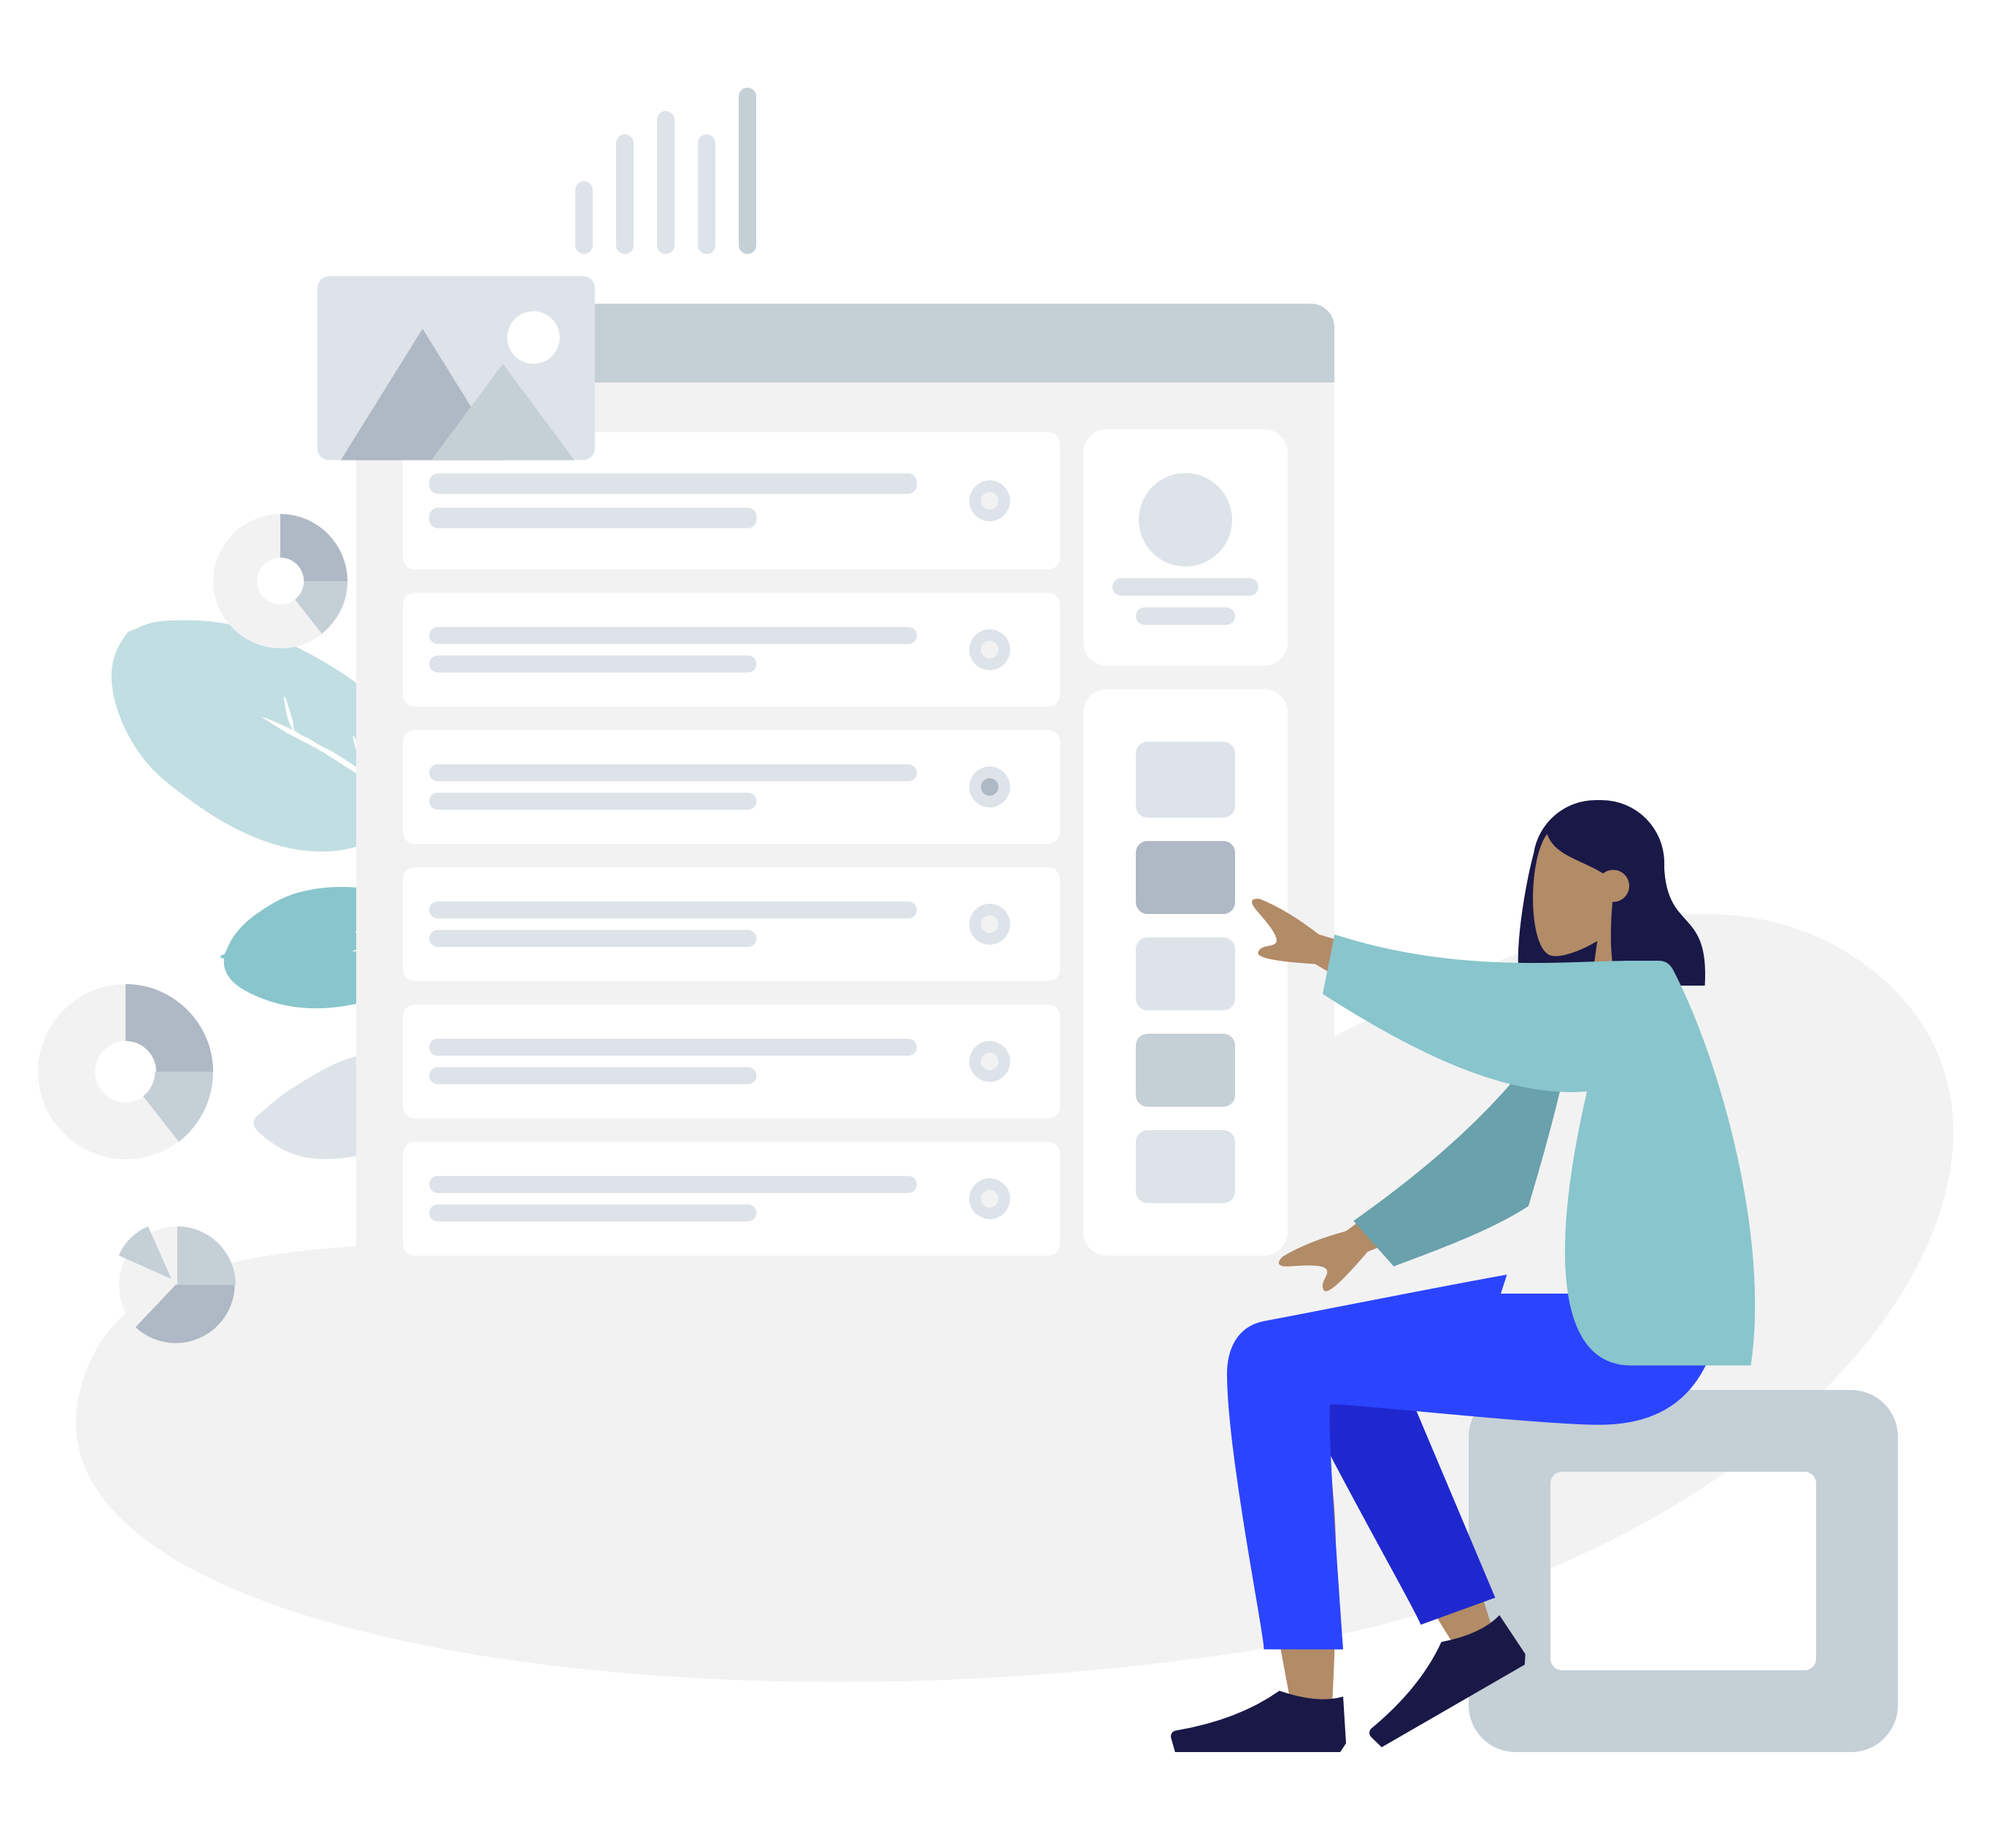
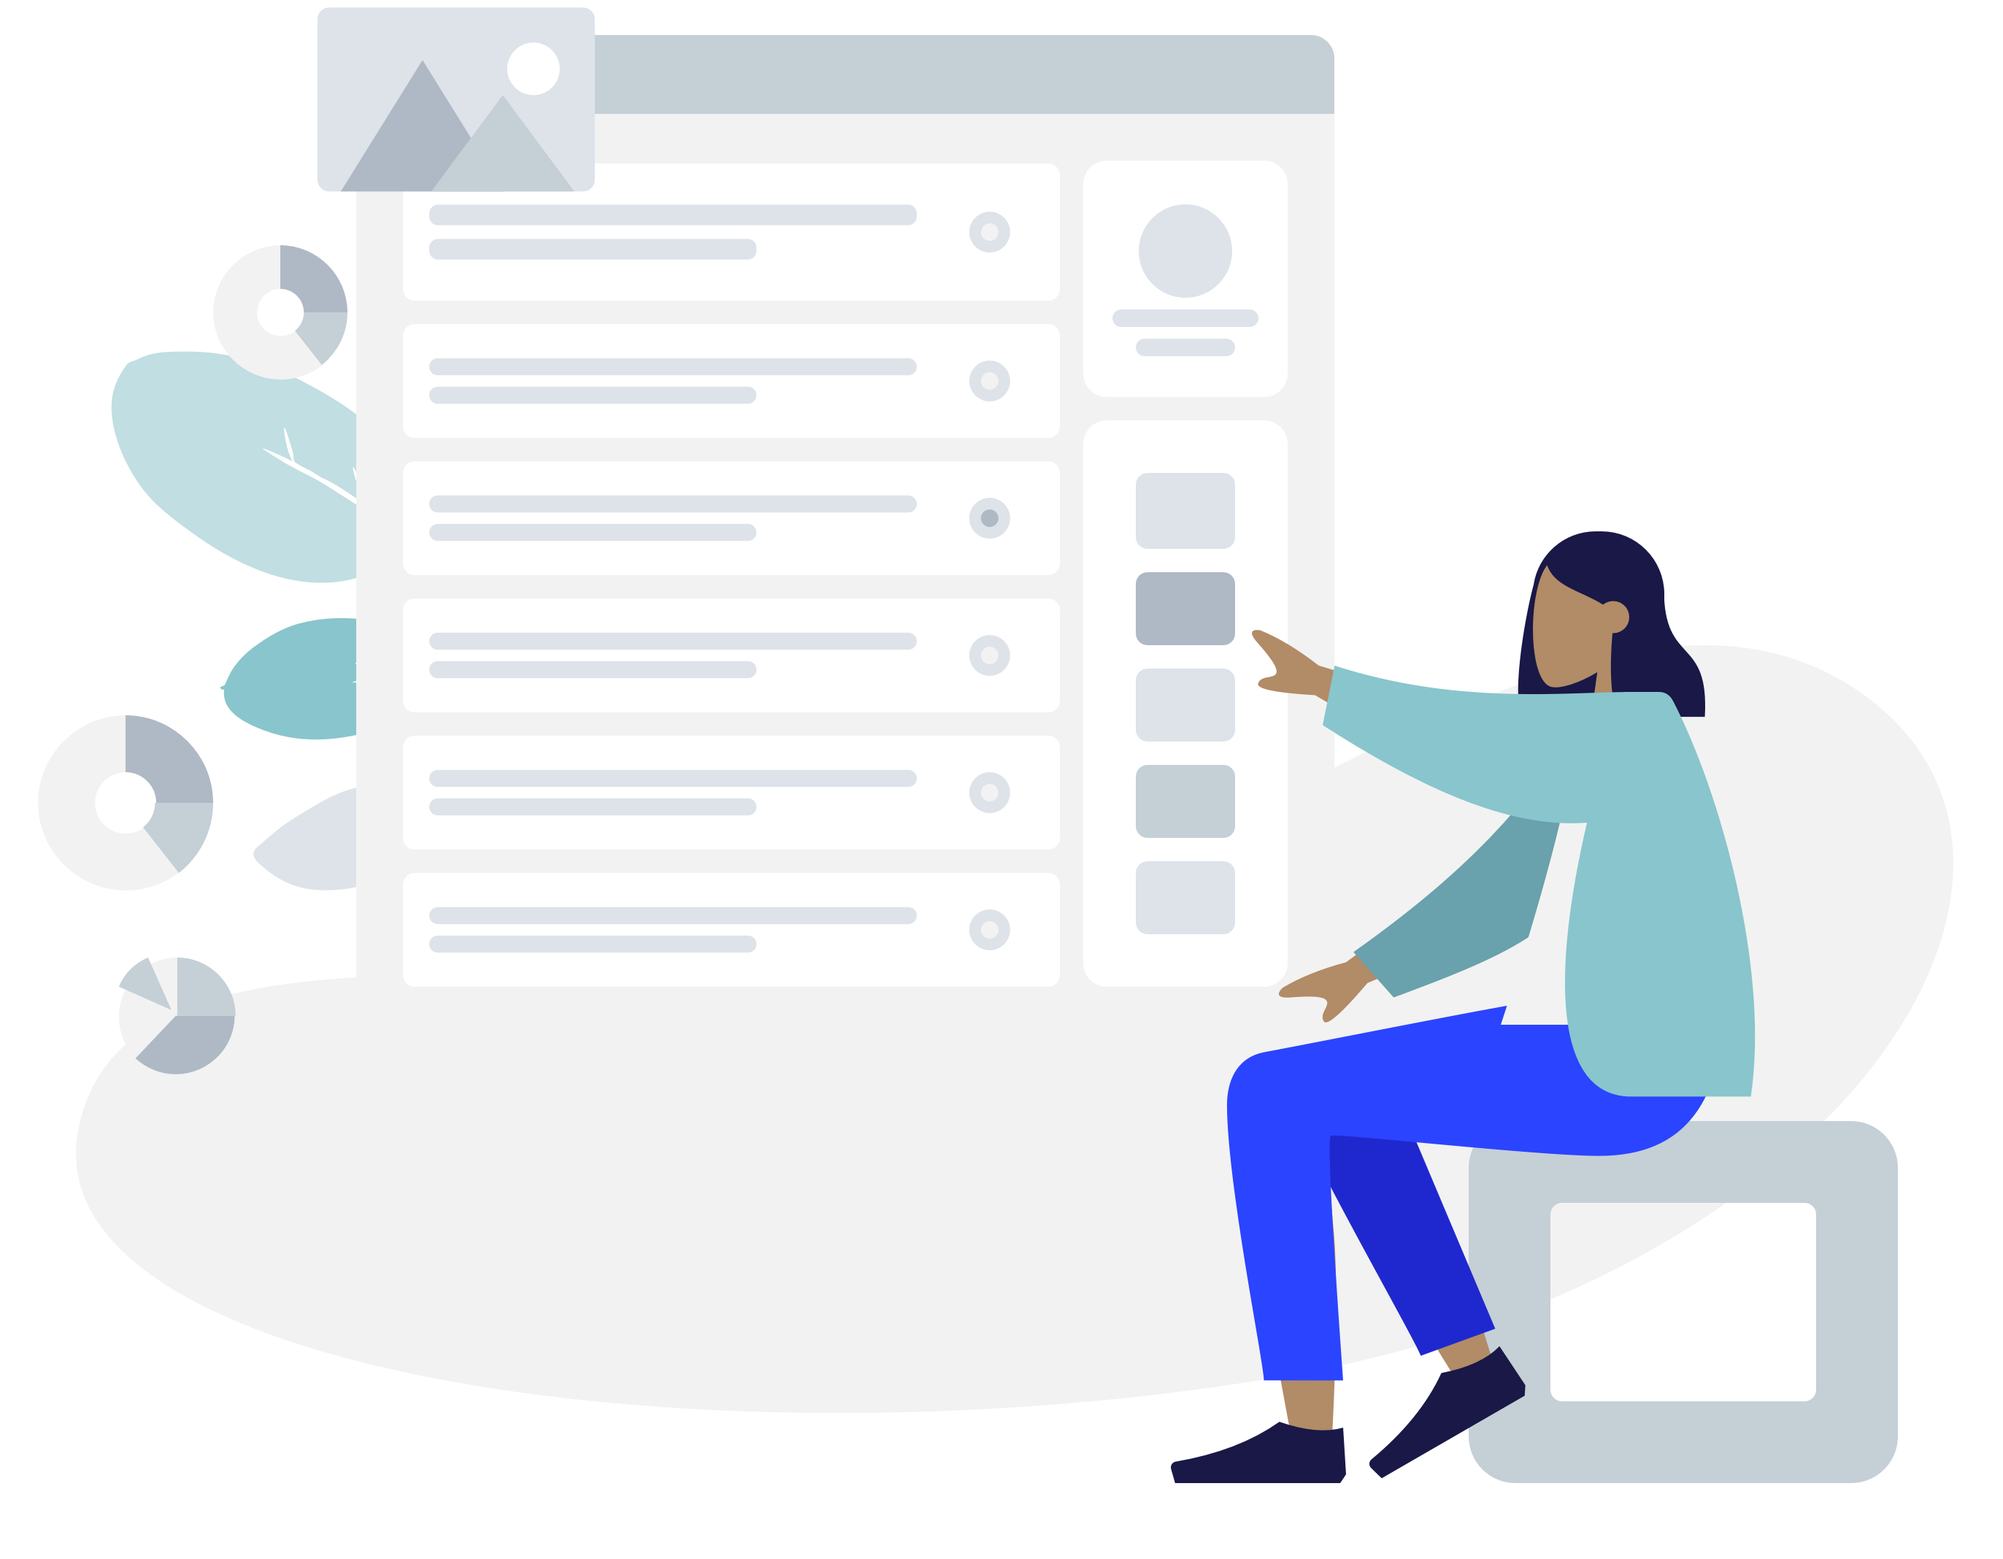
changes

diff --git a/index.html b/index.html
@@ -66,12 +66,16 @@
       <div class="row justify-content-start">
         <div class="col-md-7">
           <h1 style="margin-bottom: 24px;">Remote mentorship, internships, jobs, and community for students.</h1>
-          <p class="lead" style="margin-bottom: 30px;">Join our community of 10,000 college students and get access to exclusive remote work opportunities, resources, and mentorship. We curate the best remote internships &amp; jobs for students and send them weekly. We also pair students with industry mentors for 30-min chats.</p>
+          <p class="lead" style="margin-bottom: 30px;">Join our newsletter of 10,000 college students and get access to unique remote work opportunities, resources, and mentorship. We curate the best remote internships &amp; jobs for students and send them weekly.</p>
+          <a target="_blank" class="btn btn-lg btn-primary" href="https://remoteworkforstudents.substack.com/embed">Join the community</a>
+        </div>
+        <div class="col-md-5 justify-content-start">
+          <img style="width: 100%; height: auto" src="/img/illustration.png" />
         </div>
       </div>
       <div class="row justify-content-start">
-        <div class="col-md-5" id="mc_embed_signup">
-          <a target="_blank" class="btn btn-lg btn-primary" href="https://remoteworkforstudents.substack.com/embed">Join the community</a>
+        <div class="col-md-5">
+          
         </div>
       </div>
     </div>
@@ -100,8 +104,8 @@
           <h2>Virtual 30-minute chats with a mentor.</h2>
           <p class="lead">Hundreds of industry professionals are willing to dedicate 30 minutes to offer guidance and support to students struggling in the job search during COVID-19. We are actively looking for more volunteers!</p>
           <div class="row align-items-center">
-            <div class="col-md-5 align-items-center"><a target="_blank" href="https://forms.gle/6eU8opPfaFrh8ruDA" class="btn btn-block btn-primary">I'm in industry</a></div>
-            <div class="col-md-4 align-items-center"><a target="_blank" href="https://forms.gle/sM9Kx7L4bUSZZvxP6" class="btn btn-block btn-primary">I'm a student</a></div>
+            <div class="col-md-5 align-items-center"><a target="_blank" href="https://forms.gle/6eU8opPfaFrh8ruDA" class="btn btn-block btn-primary" style="margin-bottom: 10px;">I'm in industry</a></div>
+            <div class="col-md-5 align-items-center"><a target="_blank" href="https://forms.gle/sM9Kx7L4bUSZZvxP6" class="btn btn-block btn-primary" style="margin-bottom: 10px;">I'm a student</a></div>
           </div>
         </div>
         

diff --git a/css/scrolling-nav.css b/css/scrolling-nav.css
@@ -30,7 +30,7 @@ a:hover {
 
 header {
   padding: 156px 0 100px;
-  background-image: url(/img/illustration.png);
+/*  background-image: url(/img/illustration.png);*/
   background-size: 686px 626px;
   background-repeat: no-repeat;
   background-position: right center;
